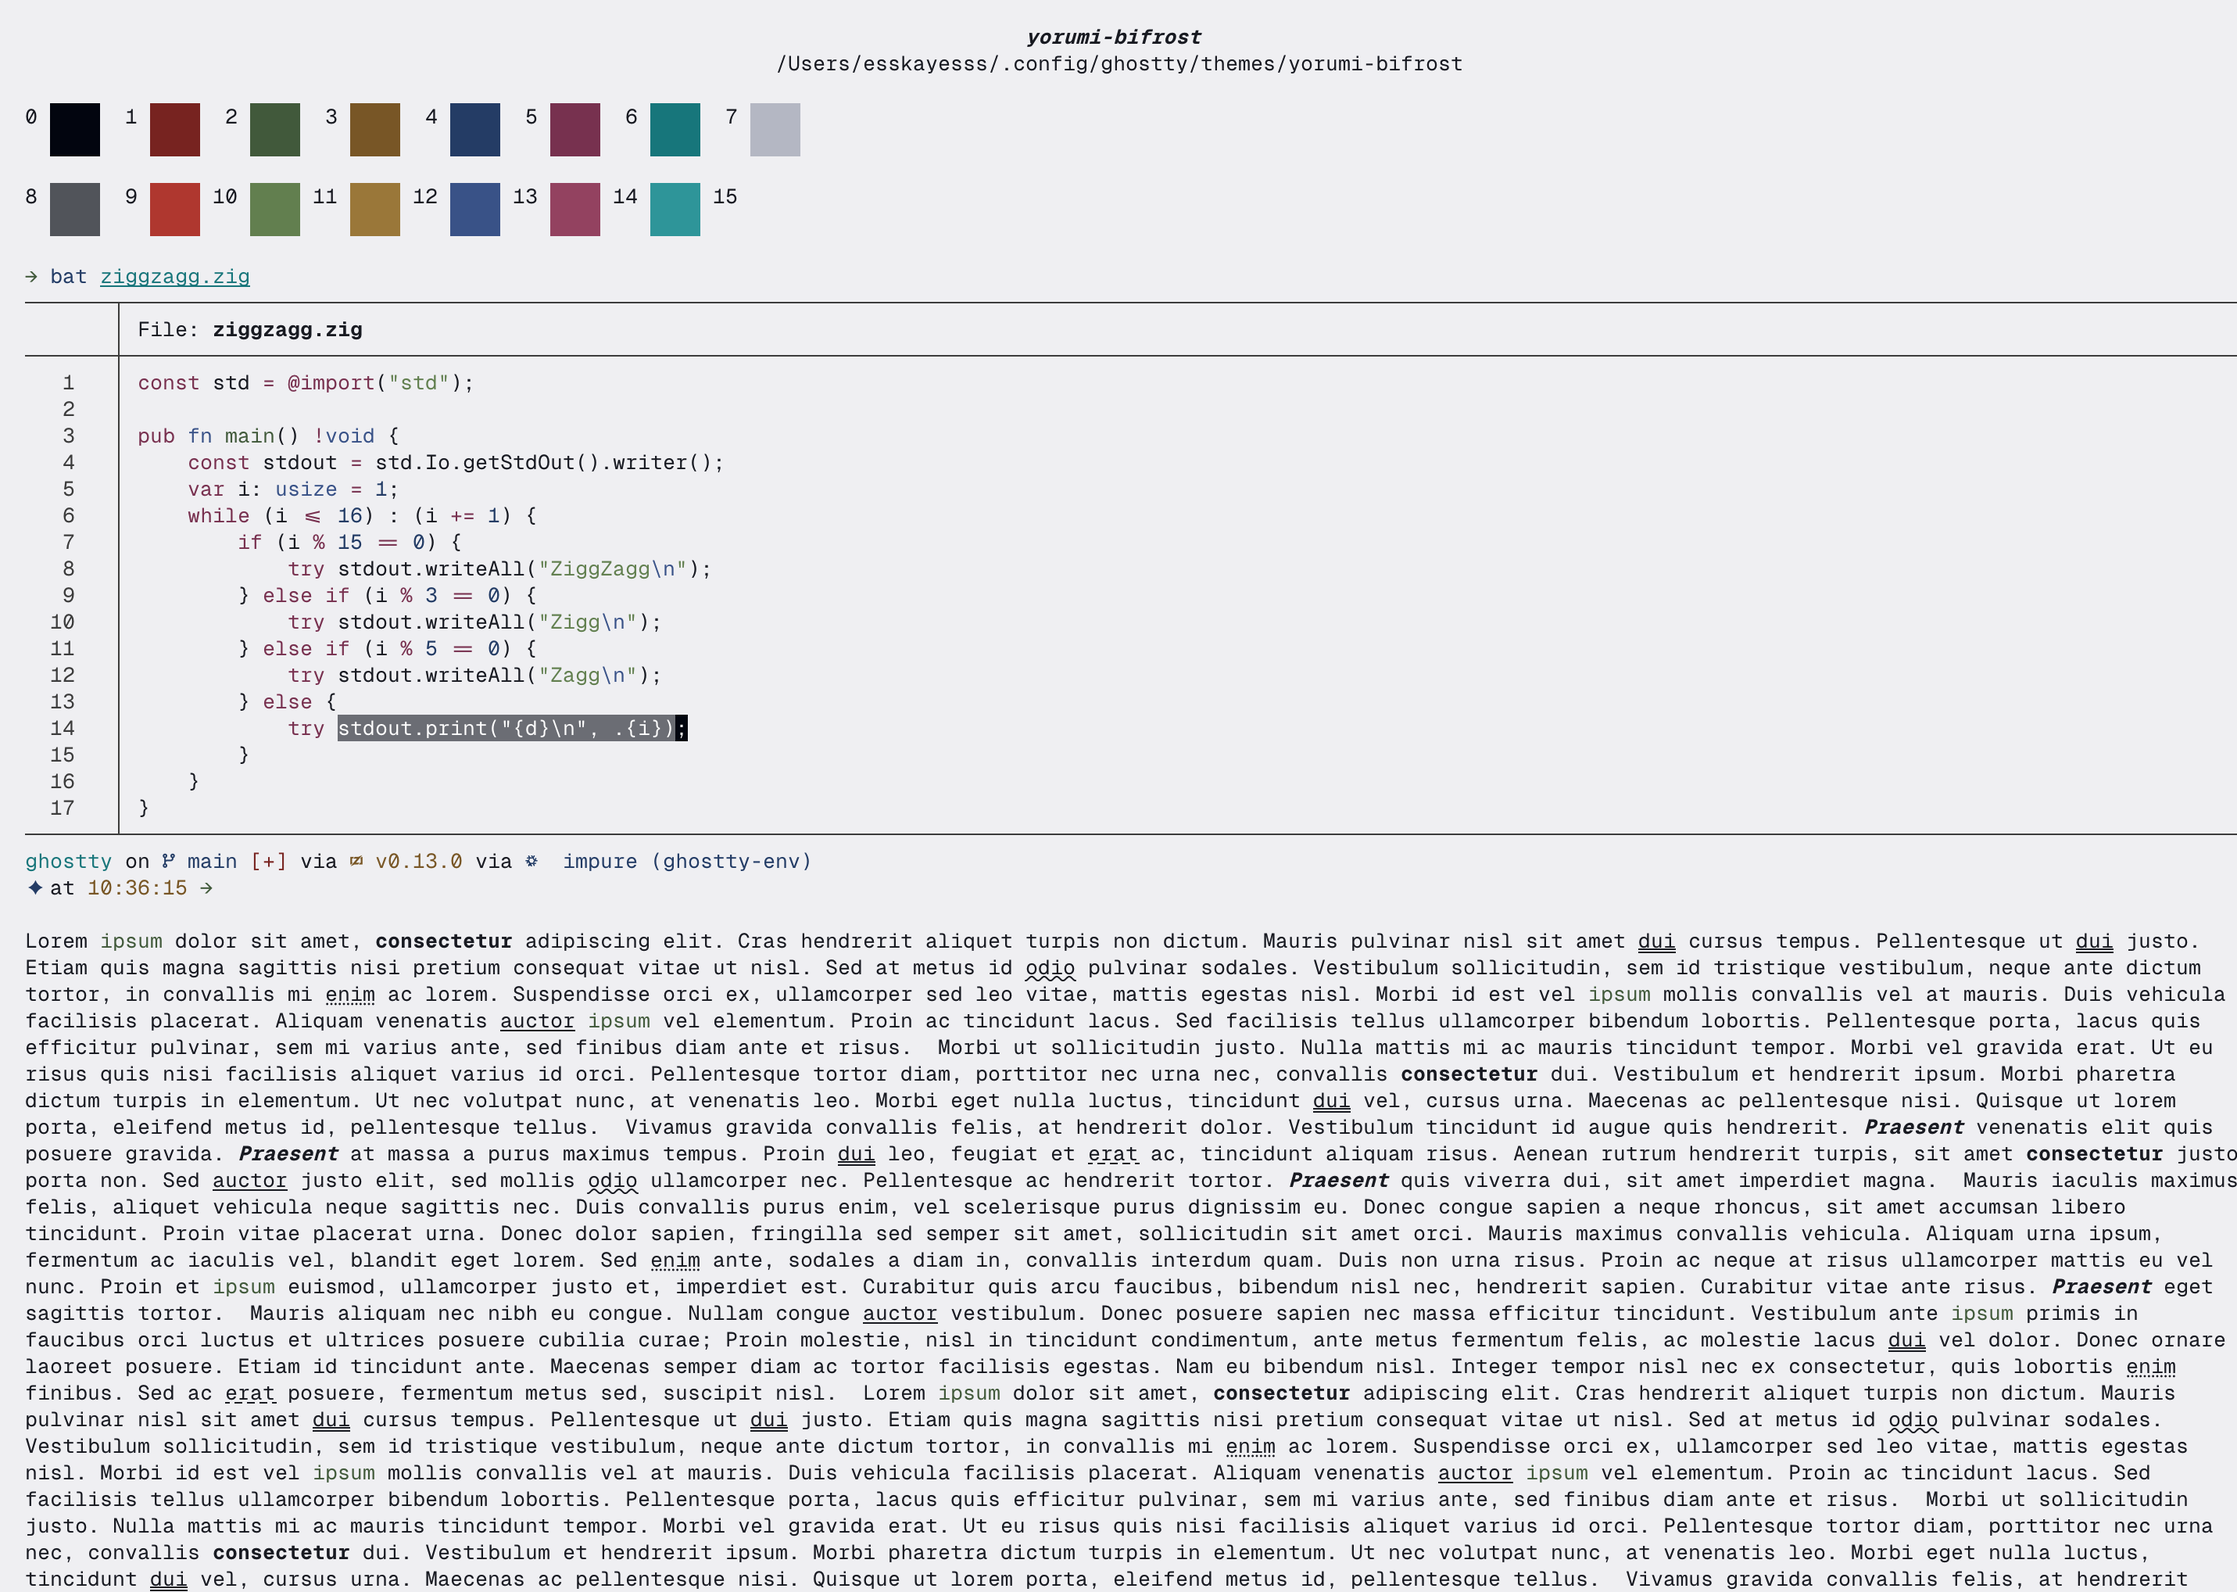
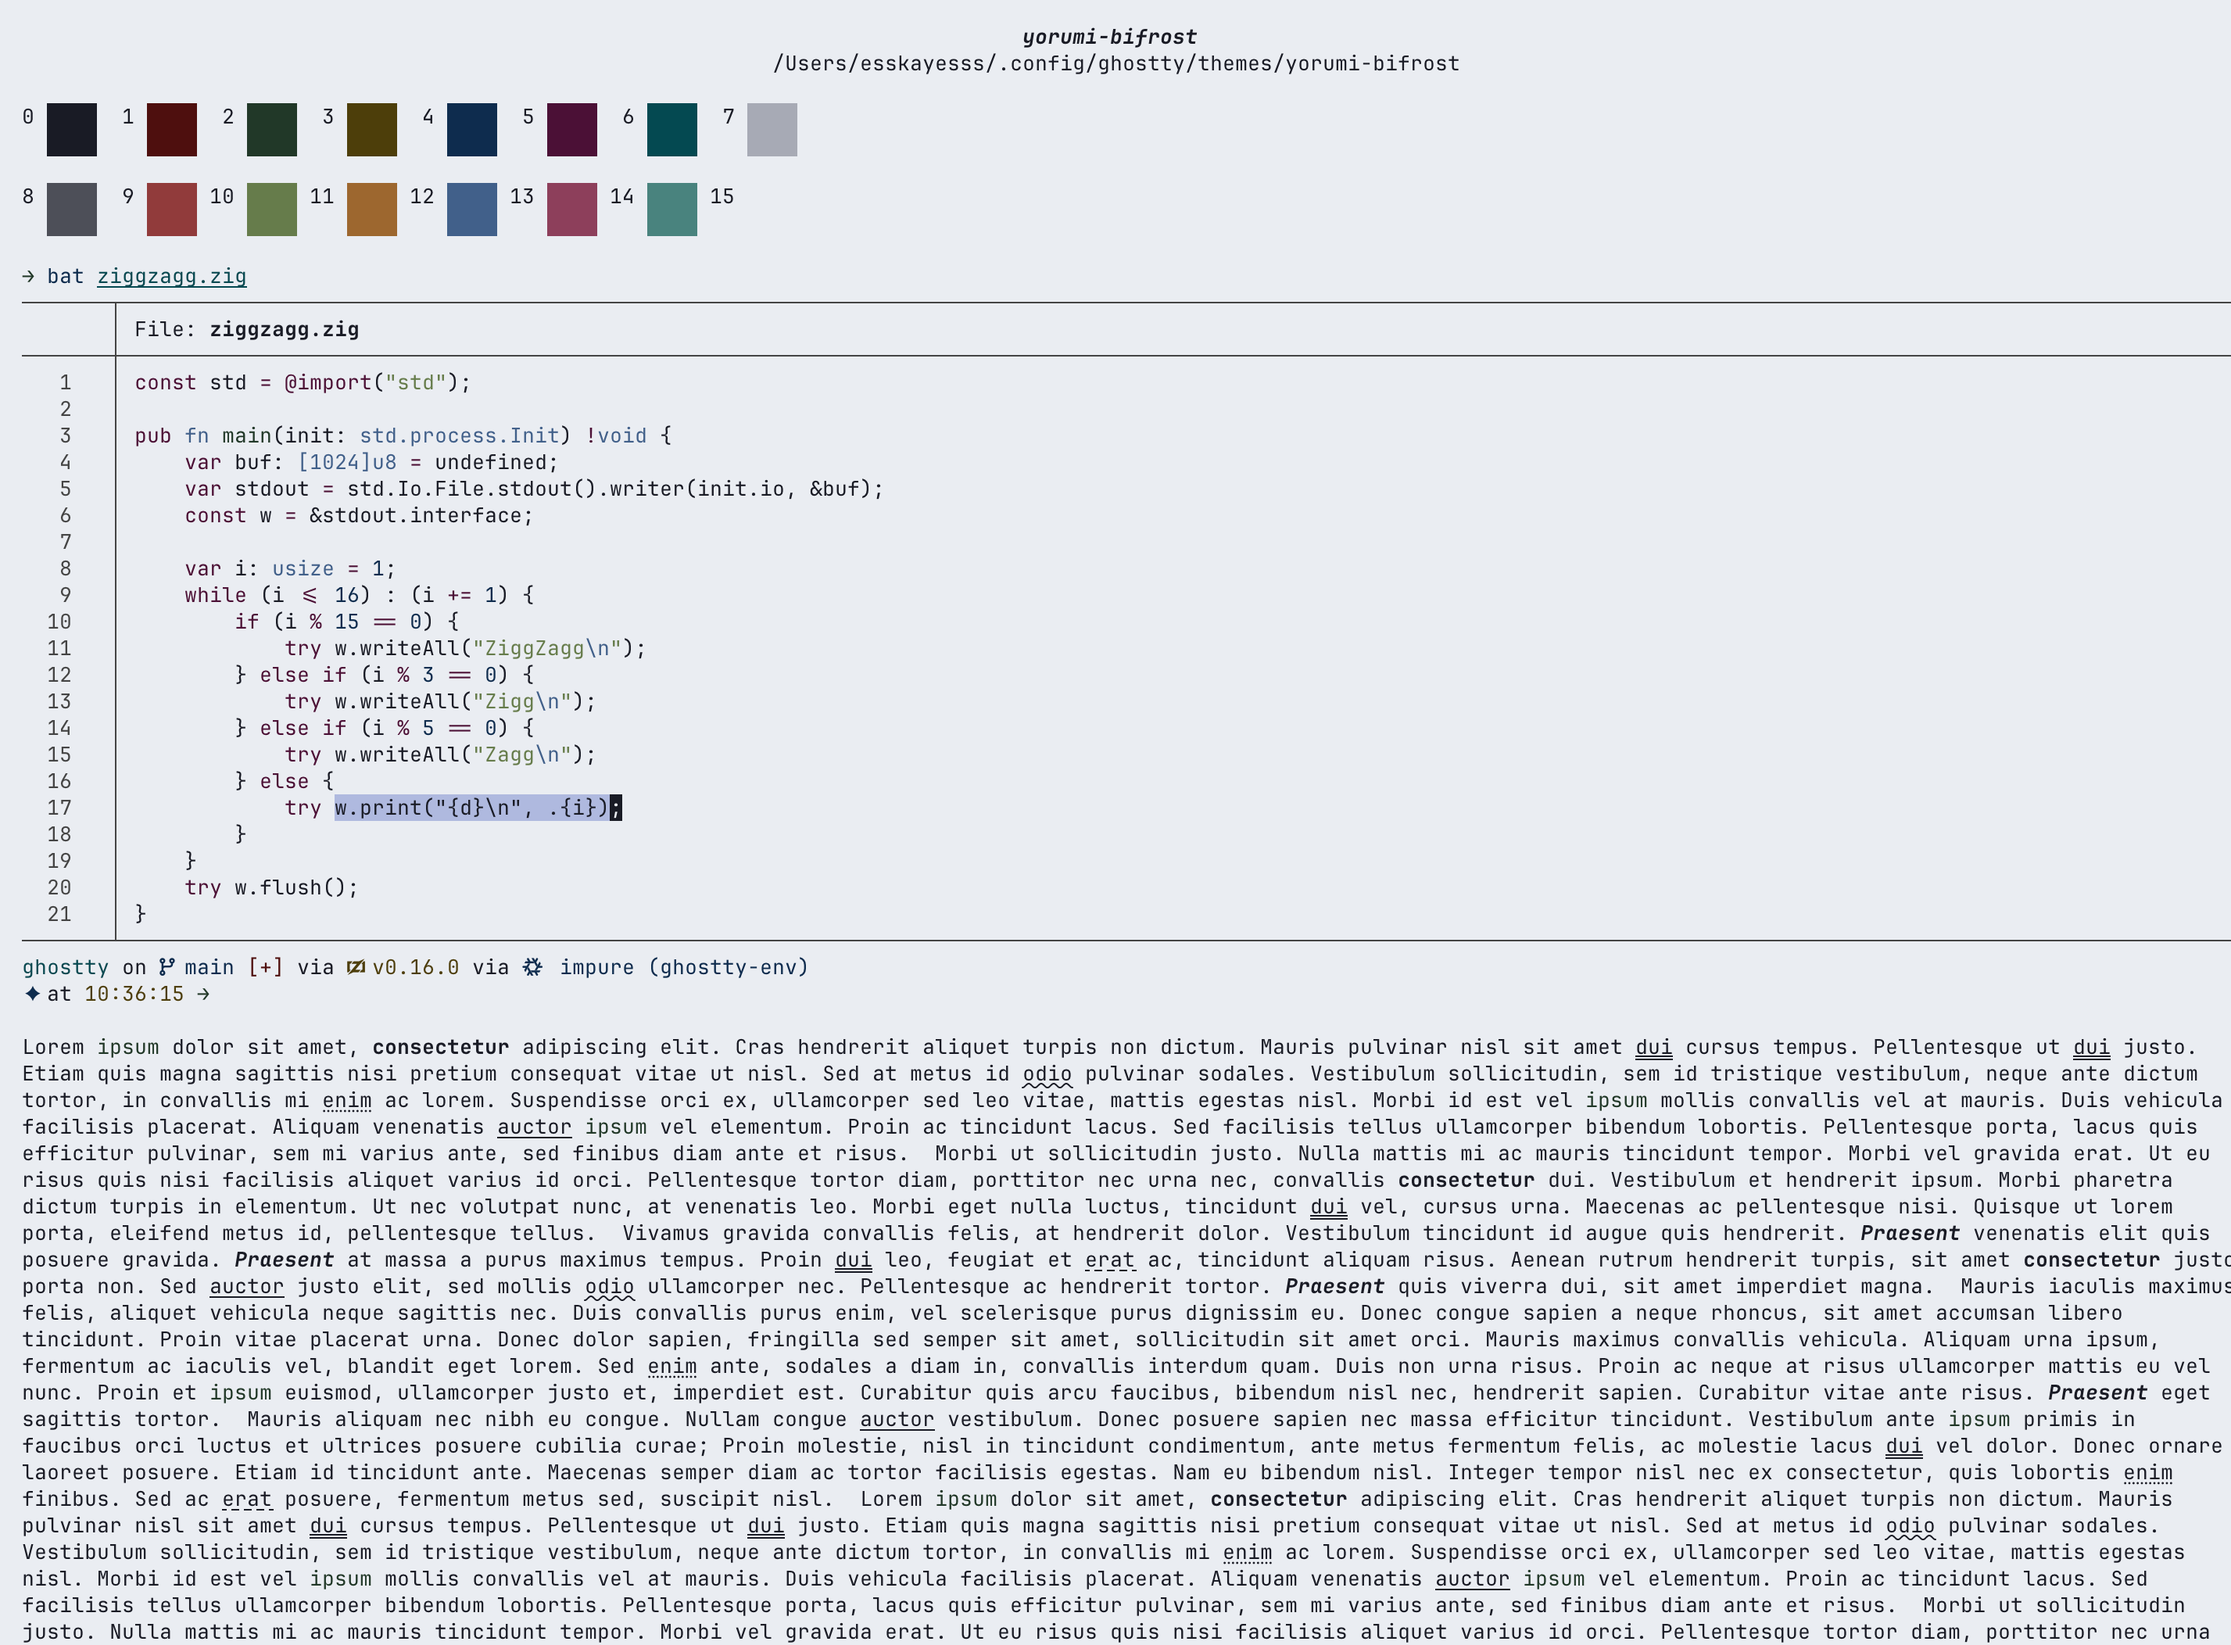
docs: screenshot previews for all seven flavours
Swap the stale pre-v3 captures (mist no longer exists in the palette) for the
new ones, and show them in the README: bifrost full-width as the light flavour,
the six dark flavours in a two-up grid, each linking to full resolution.

Changed region(s): [[0.0, 0.3713, 1.0, 1.0], [0.0, 0.0619, 0.343, 0.557], [0.343, 0.0, 0.6549, 0.0619]]

diff --git a/README.md b/README.md
@@ -21,6 +21,28 @@ Yorumi keeps visual noise low with mellow, low-contrast UI component backgrounds
 - `yorumi-cosmic`
 - `yorumi-ryujin`
 
+## Screenshots
+
+Each preview shows the 16 ANSI slots the theme defines, then `bat` syntax highlighting and prose on the same surface. Click a thumbnail for the full-resolution capture.
+
+<table>
+  <tr>
+    <td colspan="2" align="center"><a href="res/yorumi-bifrost.png"><img src="res/yorumi-bifrost.png" width="640" alt="yorumi bifrost"></a><br><code>yorumi-bifrost</code></td>
+  </tr>
+  <tr>
+    <td align="center" width="50%"><a href="res/yorumi-ether.png"><img src="res/yorumi-ether.png" width="420" alt="yorumi ether"></a><br><code>yorumi-ether</code></td>
+    <td align="center" width="50%"><a href="res/yorumi-abyss.png"><img src="res/yorumi-abyss.png" width="420" alt="yorumi abyss"></a><br><code>yorumi-abyss</code></td>
+  </tr>
+  <tr>
+    <td align="center" width="50%"><a href="res/yorumi-kraken.png"><img src="res/yorumi-kraken.png" width="420" alt="yorumi kraken"></a><br><code>yorumi-kraken</code></td>
+    <td align="center" width="50%"><a href="res/yorumi-kabocha.png"><img src="res/yorumi-kabocha.png" width="420" alt="yorumi kabocha"></a><br><code>yorumi-kabocha</code></td>
+  </tr>
+  <tr>
+    <td align="center" width="50%"><a href="res/yorumi-cosmic.png"><img src="res/yorumi-cosmic.png" width="420" alt="yorumi cosmic"></a><br><code>yorumi-cosmic</code></td>
+    <td align="center" width="50%"><a href="res/yorumi-ryujin.png"><img src="res/yorumi-ryujin.png" width="420" alt="yorumi ryujin"></a><br><code>yorumi-ryujin</code></td>
+  </tr>
+</table>
+
 ## Quick Installation
 
 ### Linux & macOS (Bash)
